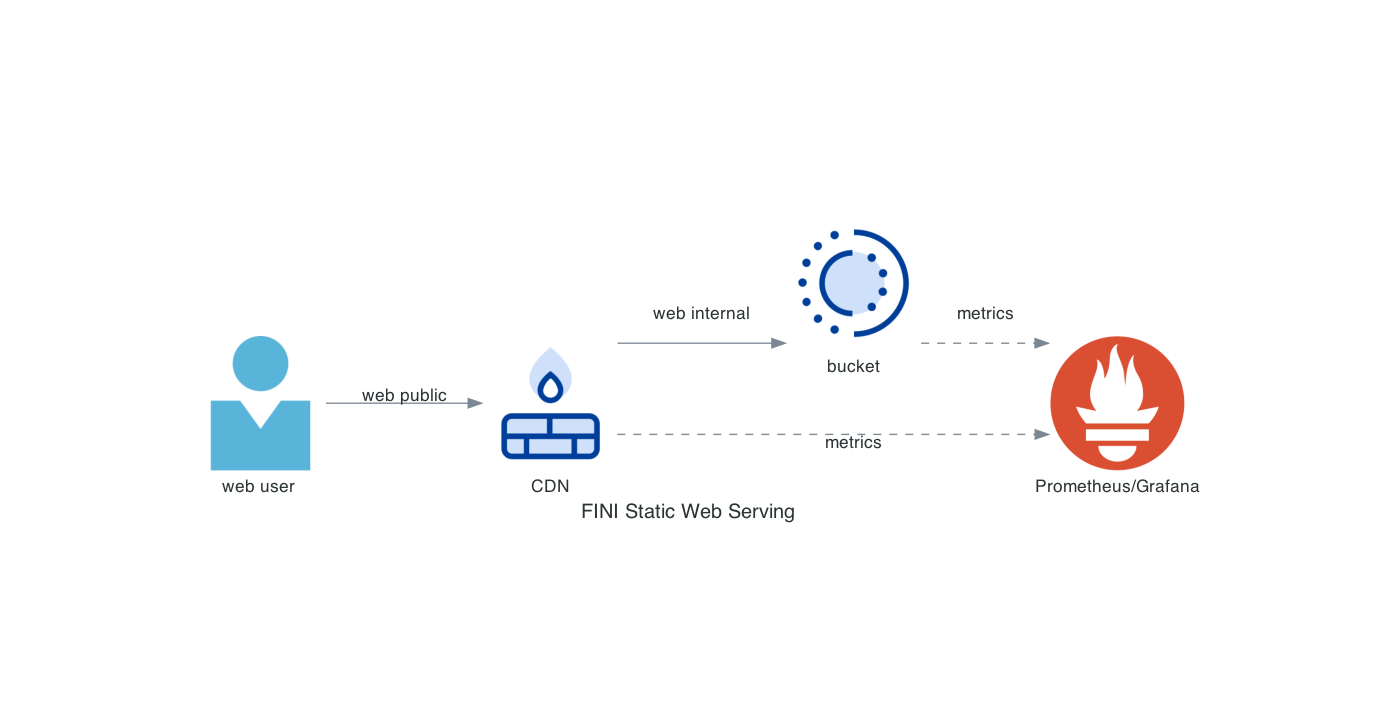
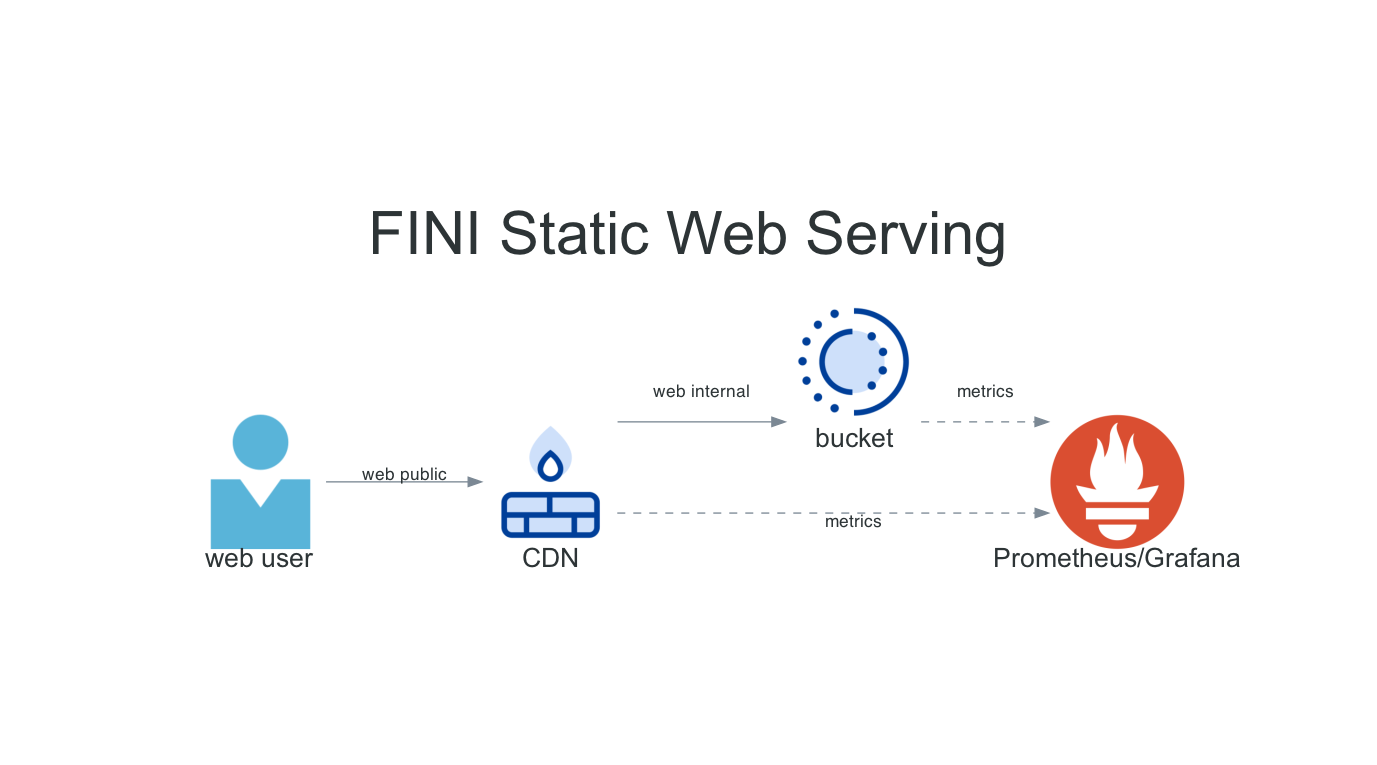
🔎 [diagrams] clearer lettering and better metadata (#11)

diff --git a/architecture/diagrams/static-web.py b/architecture/diagrams/static-web.py
@@ -6,7 +6,27 @@ from diagrams.digitalocean.network import Firewall
 from diagrams.digitalocean.storage import Space
 from diagrams.onprem.monitoring import Prometheus
 
-with Diagram("FINI Static Web Serving", show=False):
+_graph_attr = {
+    "fontsize": "45",
+    "fontname": "Inter, Arial",
+    "labelloc": "t"
+}
+
+_node_attr={
+    "fontname": "Inter, Arial",
+    "fontsize": "20"
+}
+
+_edge_attr={
+    "fontname": "Inter, Arial",
+    "fontsize": "18",
+}
+
+with Diagram("FINI Static Web Serving",
+             graph_attr=_graph_attr, 
+             node_attr=_node_attr,
+             edge_attr=_edge_attr,
+             show=False):
     user = Usericon("web user")
     cdn = Firewall("CDN")
     storage = Space("bucket")
@@ -18,7 +38,5 @@ with Diagram("FINI Static Web Serving", show=False):
     # monitoring
     cdn >> Edge(label="metrics", style="dashed") >> monitoring
     storage >> Edge(label="metrics", style="dashed") >> monitoring
-
-
 
 print("Done generating diagrams, no preview is coming.")
